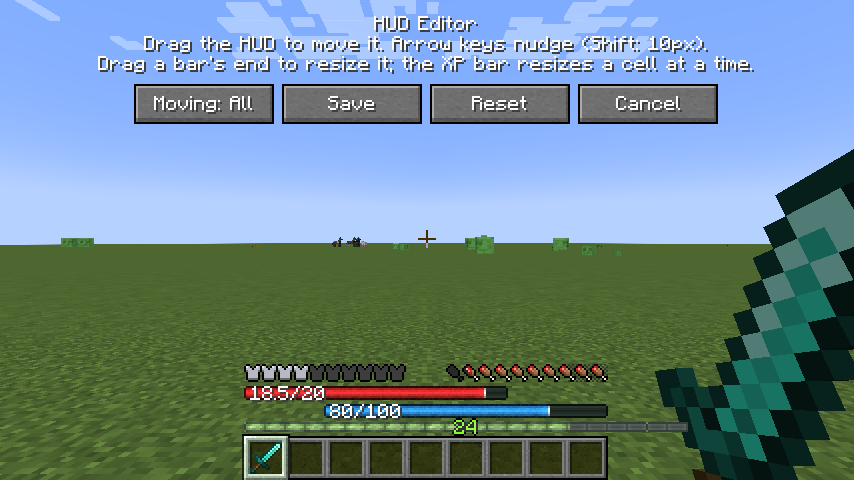
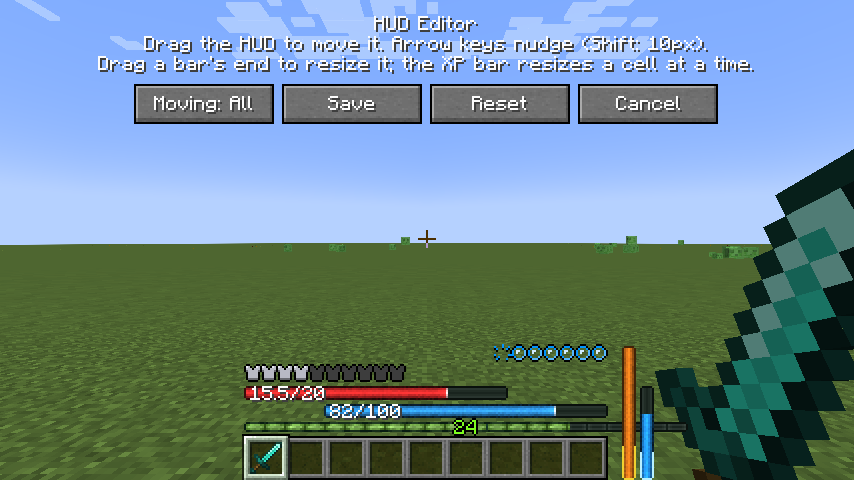
docs: retake the screenshots for 2.2.0, with a collage of chaotic layouts
Claude-Session: https://claude.ai/code/session_01TQJMH5iEDuFxYmWmLA4Ybb

diff --git a/docs/curseforge-description.md b/docs/curseforge-description.md
@@ -97,7 +97,7 @@ Selecting a spell via spell wheel, the mana bar blinks according to how much man
 
 #### Advanced mode: resizing bars in the HUD Editor
 
-![The HUD Editor in Advanced mode: the health bar shortened from its right end, the mana bar from its left, and the XP bar made longer](https://raw.githubusercontent.com/joshua-fonseca/mc-rpg-health-bar/main/docs/images/resize-bars.png)
+![The HUD Editor in Advanced mode: the health bar shortened from its right end, the mana bar from its left, the XP bar made longer, and the vertical hunger and thirst bars made taller](https://raw.githubusercontent.com/joshua-fonseca/mc-rpg-health-bar/main/docs/images/resize-bars.png)
 
 #### Moving the whole HUD
 
@@ -105,7 +105,7 @@ Selecting a spell via spell wheel, the mana bar blinks according to how much man
 
 #### Moving a single piece
 
-![Moving one piece: the health bar](https://raw.githubusercontent.com/joshua-fonseca/mc-rpg-health-bar/main/docs/images/move-pieces.png)
+![Moving single pieces: the health bar and the air bubbles](https://raw.githubusercontent.com/joshua-fonseca/mc-rpg-health-bar/main/docs/images/move-pieces.png)
 
 #### Setting the item name height
 
@@ -117,4 +117,4 @@ Selecting a spell via spell wheel, the mana bar blinks according to how much man
 
 #### I will not judge you for your layouts even if it looks like this:
 
-![A chaotic layout: the health, mana and XP bars stretched and scattered across the screen at odd widths](https://raw.githubusercontent.com/joshua-fonseca/mc-rpg-health-bar/main/docs/images/layout-chaos.png)
+![Four chaotic layouts in a collage: bars stretched and scattered across the screen at odd widths and heights](https://raw.githubusercontent.com/joshua-fonseca/mc-rpg-health-bar/main/docs/images/layout-chaos.png)

diff --git a/README.md b/README.md
@@ -100,7 +100,7 @@ Defaults are in bold:
 
 #### Advanced mode: resizing bars in the HUD Editor
 
-![The HUD Editor in Advanced mode: the health bar shortened from its right end, the mana bar from its left, and the XP bar made longer](docs/images/resize-bars.png)
+![The HUD Editor in Advanced mode: the health bar shortened from its right end, the mana bar from its left, the XP bar made longer, and the vertical hunger and thirst bars made taller](docs/images/resize-bars.png)
 
 #### Moving the whole HUD
 
@@ -108,7 +108,7 @@ Defaults are in bold:
 
 #### Moving a single piece
 
-![Moving one piece: the health bar](docs/images/move-pieces.png)
+![Moving single pieces: the health bar and the air bubbles](docs/images/move-pieces.png)
 
 #### Setting the item name height
 
